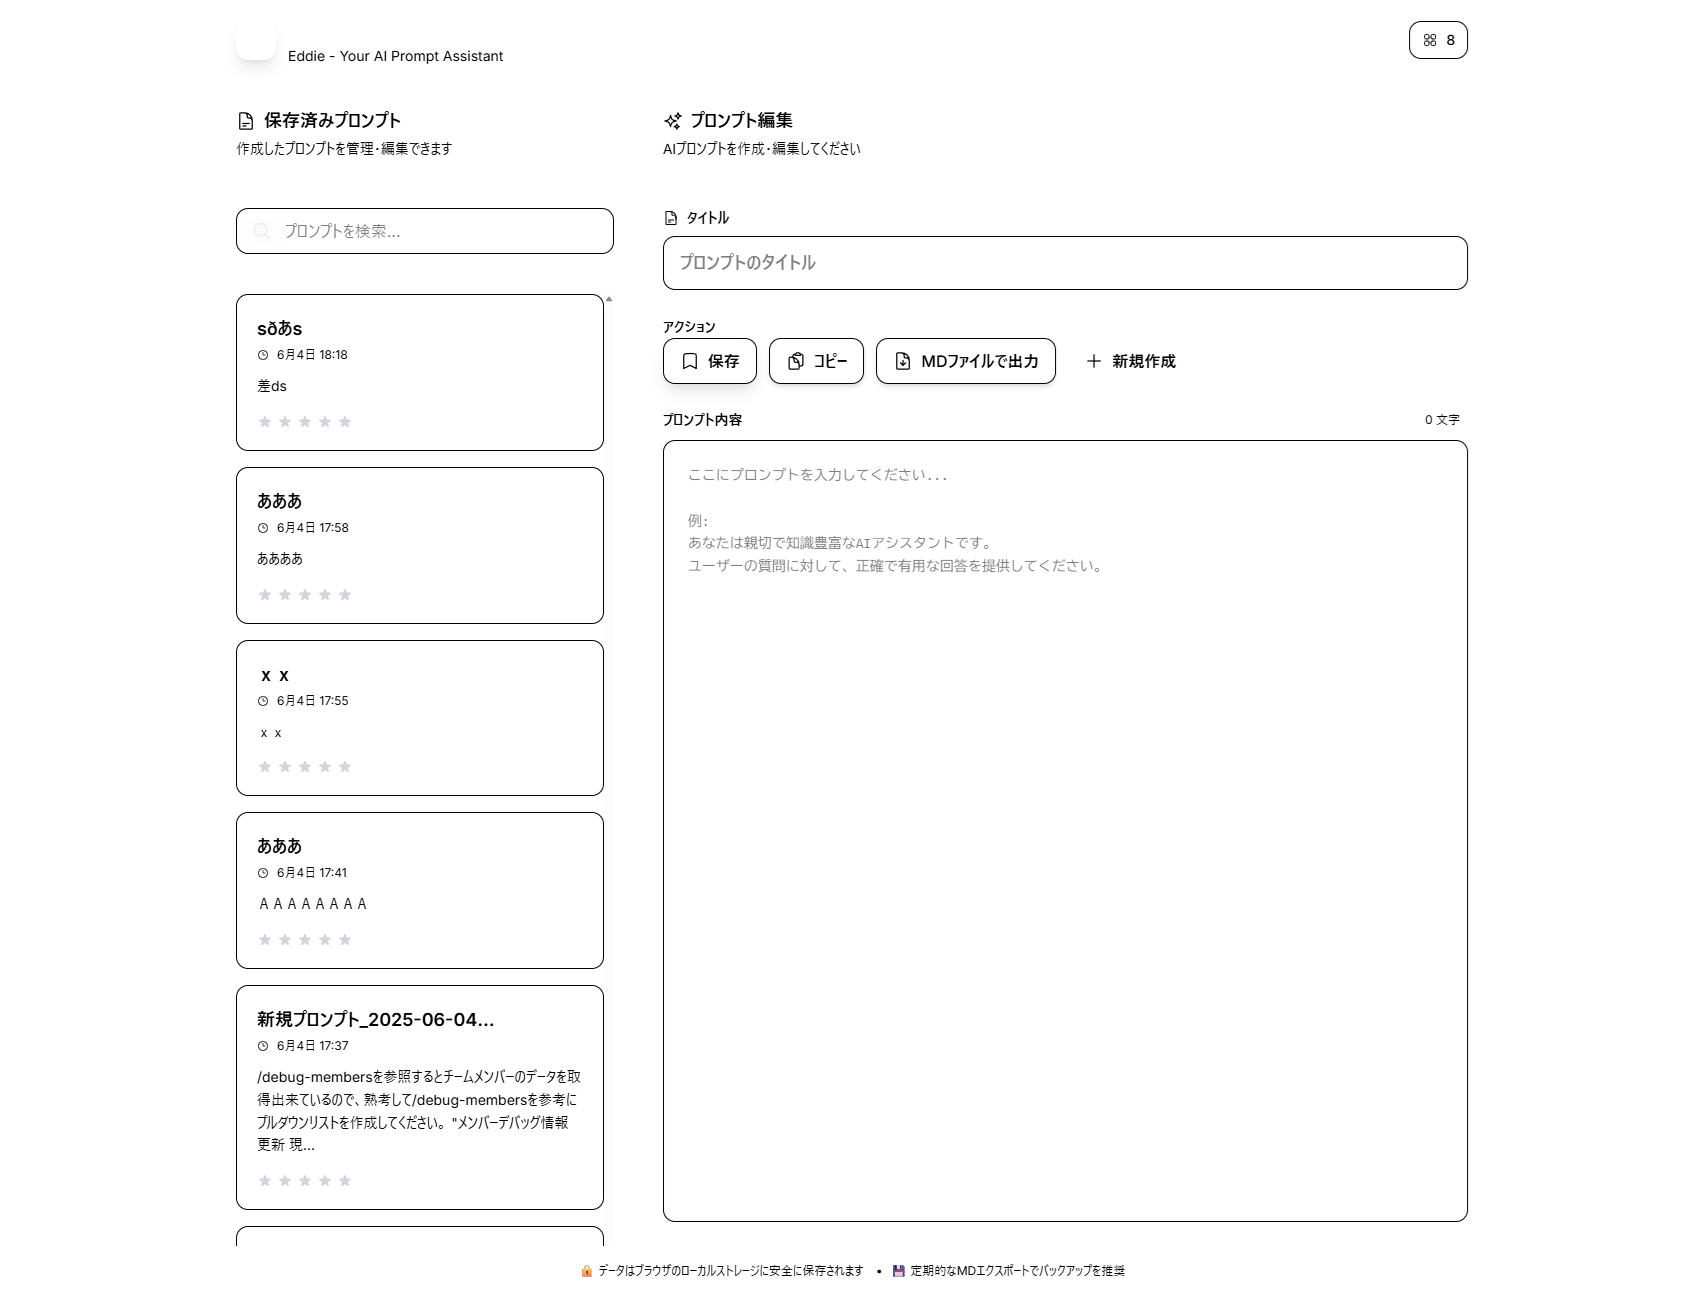
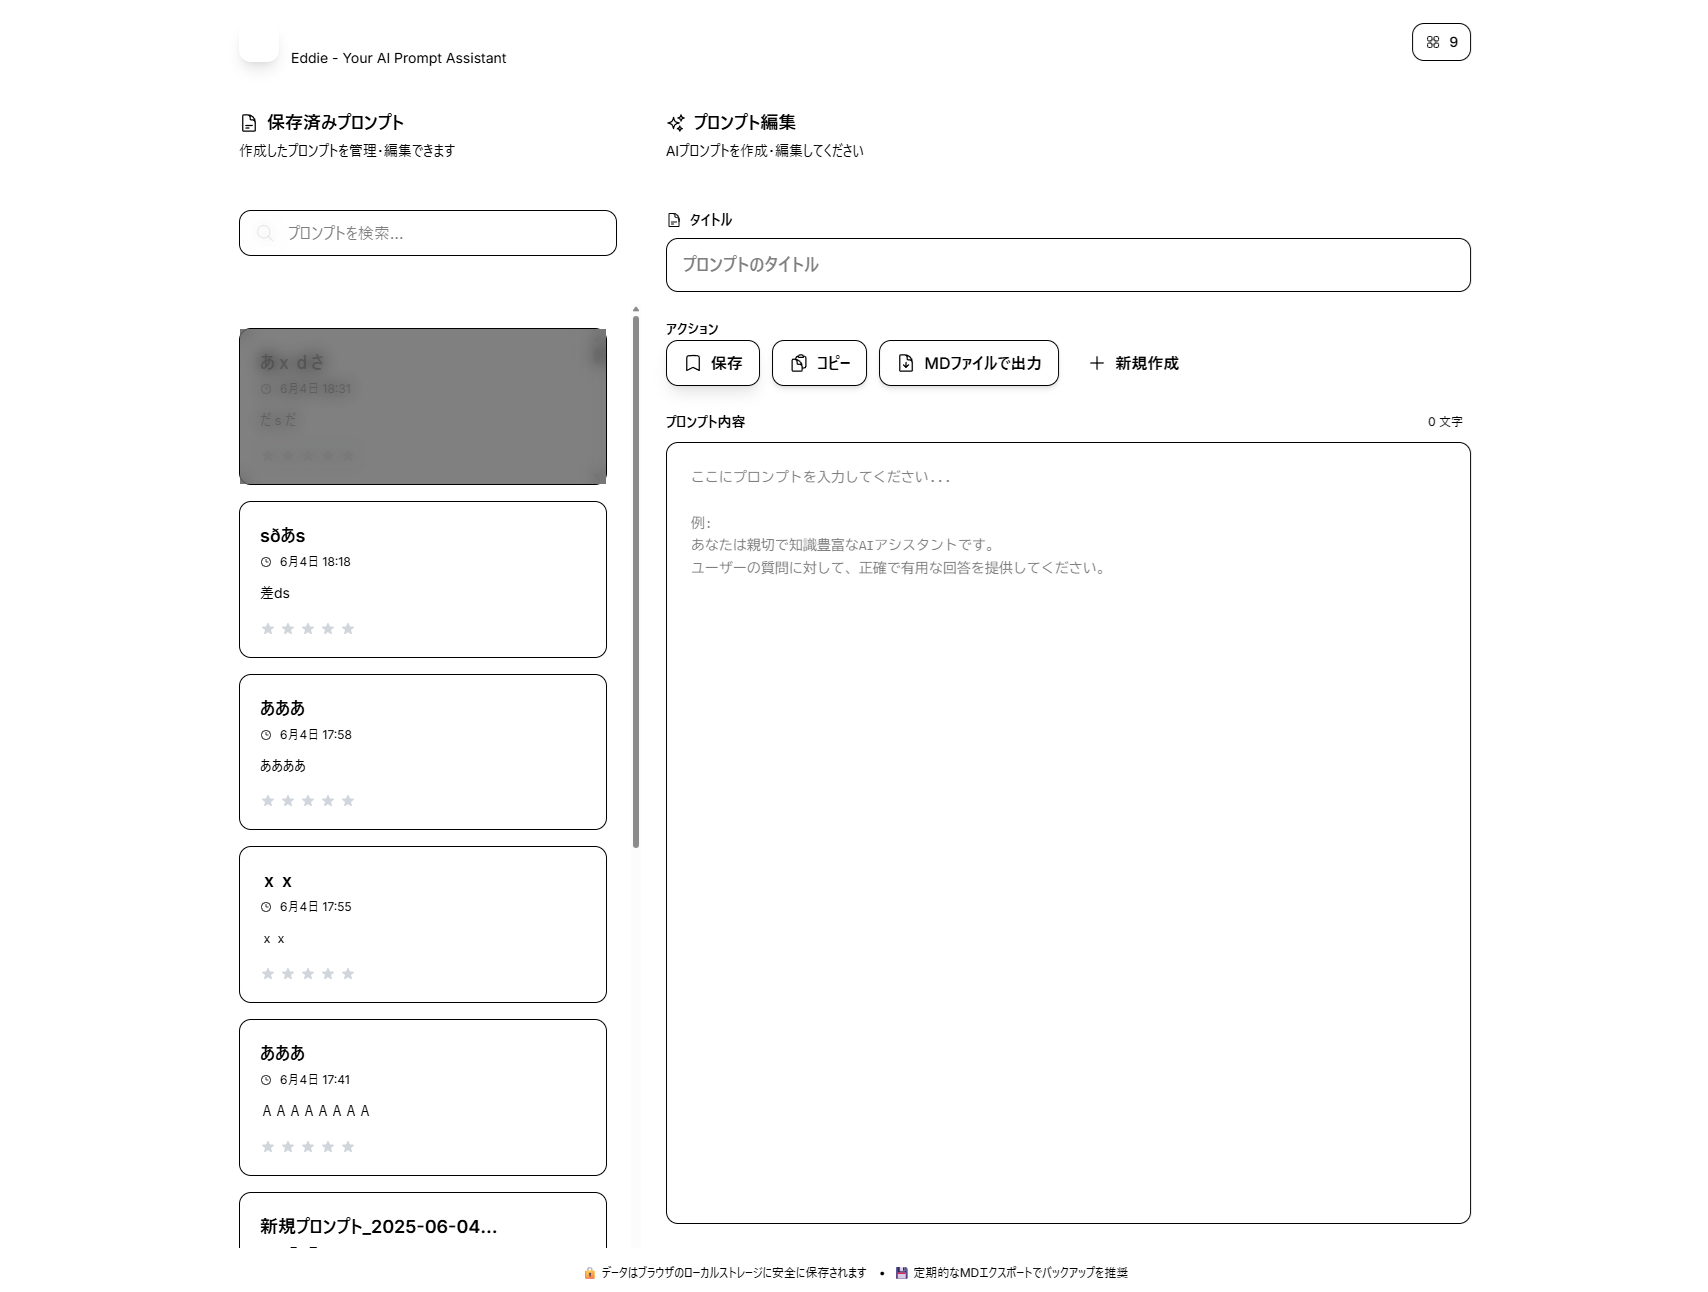
Fix: 削除確認モーダルの表示位置を修正
削除ボタンクリック時の挙動を改善:
- 削除確認ダイアログの管理を親コンポーネント(PromptList)に移動
- プロンプトカード単体ではなくサイドバー全体がグレーアウトするように修正
- 削除ボタンを1回クリックするだけでモーダルが表示されるように改善

🤖 Generated with [Claude Code](https://claude.ai/code)

diff --git a/eddie-prompt-editor/src/components/List/PromptList.jsx b/eddie-prompt-editor/src/components/List/PromptList.jsx
@@ -1,6 +1,7 @@
 import React, { useState } from 'react';
 import { SearchBar } from './SearchBar';
 import { PromptListItem } from './PromptListItem';
+import { ConfirmDialog } from '../Modal/ConfirmDialog';
 import { DocumentTextIcon, ExclamationCircleIcon } from '@heroicons/react/24/outline';
 
 export function PromptList({ 
@@ -14,6 +15,26 @@ export function PromptList({
   onSearch,
   selectedPromptId = null
 }) {
+  const [deletePromptId, setDeletePromptId] = useState(null);
+  const [showDeleteDialog, setShowDeleteDialog] = useState(false);
+
+  const handleDeleteClick = (promptId) => {
+    setDeletePromptId(promptId);
+    setShowDeleteDialog(true);
+  };
+
+  const handleConfirmDelete = () => {
+    if (deletePromptId) {
+      onDeletePrompt(deletePromptId);
+      setDeletePromptId(null);
+      setShowDeleteDialog(false);
+    }
+  };
+
+  const handleCancelDelete = () => {
+    setDeletePromptId(null);
+    setShowDeleteDialog(false);
+  };
   if (loading) {
     return (
       <div className="flex items-center justify-center h-64 p-4 sm:p-6">
@@ -40,54 +61,66 @@ export function PromptList({
   }
 
   return (
-    <div className="h-full flex flex-col animate-fade-in">
-      <div className="flex-shrink-0 p-4 sm:p-6 pb-0">
-        <SearchBar onSearch={onSearch} />
-      </div>
-      
-      <div className="flex-1 scrollbar-always-visible min-h-0 p-4 sm:p-6 pt-4" style={{ maxHeight: 'calc(100vh - 280px)' }}>
-          {prompts.length === 0 ? (
-            <div className="text-center py-16">
-              <div className="bg-gradient-to-br from-primary-100 to-accent-100 w-24 h-24 rounded-full flex items-center justify-center mx-auto mb-6 shadow-soft">
-                <DocumentTextIcon className="w-12 h-12 text-primary-600" />
-              </div>
-              <h3 className="text-xl font-semibold text-secondary-900 mb-2">
-                プロンプトがまだありません
-              </h3>
-              <p className="text-secondary-600 max-w-sm mx-auto leading-relaxed">
-                右のエディタでAIプロンプトを作成してみましょう！
-                <br />
-                作成したプロンプトはここに表示されます。
-              </p>
-            </div>
-          ) : (
-            <>
-              <div className="space-y-4">
-                {prompts.map((prompt, index) => (
-                  <div
-                    key={prompt.id}
-                    style={{ animationDelay: `${index * 50}ms` }}
-                  >
-                    <PromptListItem
-                      prompt={prompt}
-                      onSelect={onSelectPrompt}
-                      onCopyAndEdit={onCopyAndEdit}
-                      onDelete={onDeletePrompt}
-                      onRate={onRatePrompt}
-                      isSelected={prompt.id === selectedPromptId}
-                    />
-                  </div>
-                ))}
-              </div>
-              
-              <div className="mt-6 pt-4 border-t border-secondary-200">
-                <p className="text-xs text-secondary-500 text-center">
-                  {prompts.length} 件のプロンプトが保存されています
+    <>
+      <div className={`h-full flex flex-col animate-fade-in ${showDeleteDialog ? 'opacity-50 pointer-events-none' : ''}`}>
+        <div className="flex-shrink-0 p-4 sm:p-6 pb-0">
+          <SearchBar onSearch={onSearch} />
+        </div>
+        
+        <div className="flex-1 scrollbar-always-visible min-h-0 p-4 sm:p-6 pt-4" style={{ maxHeight: 'calc(100vh - 280px)' }}>
+            {prompts.length === 0 ? (
+              <div className="text-center py-16">
+                <div className="bg-gradient-to-br from-primary-100 to-accent-100 w-24 h-24 rounded-full flex items-center justify-center mx-auto mb-6 shadow-soft">
+                  <DocumentTextIcon className="w-12 h-12 text-primary-600" />
+                </div>
+                <h3 className="text-xl font-semibold text-secondary-900 mb-2">
+                  プロンプトがまだありません
+                </h3>
+                <p className="text-secondary-600 max-w-sm mx-auto leading-relaxed">
+                  右のエディタでAIプロンプトを作成してみましょう！
+                  <br />
+                  作成したプロンプトはここに表示されます。
                 </p>
               </div>
-            </>
-          )}
+            ) : (
+              <>
+                <div className="space-y-4">
+                  {prompts.map((prompt, index) => (
+                    <div
+                      key={prompt.id}
+                      style={{ animationDelay: `${index * 50}ms` }}
+                    >
+                      <PromptListItem
+                        prompt={prompt}
+                        onSelect={onSelectPrompt}
+                        onCopyAndEdit={onCopyAndEdit}
+                        onDelete={handleDeleteClick}
+                        onRate={onRatePrompt}
+                        isSelected={prompt.id === selectedPromptId}
+                      />
+                    </div>
+                  ))}
+                </div>
+                
+                <div className="mt-6 pt-4 border-t border-secondary-200">
+                  <p className="text-xs text-secondary-500 text-center">
+                    {prompts.length} 件のプロンプトが保存されています
+                  </p>
+                </div>
+              </>
+            )}
+        </div>
       </div>
-    </div>
+      
+      <ConfirmDialog
+        isOpen={showDeleteDialog}
+        onClose={handleCancelDelete}
+        onConfirm={handleConfirmDelete}
+        title="プロンプトを削除"
+        message="このプロンプトを削除しますか？この操作は取り消せません。"
+        confirmText="削除"
+        cancelText="キャンセル"
+      />
+    </>
   );
 }

diff --git a/eddie-prompt-editor/src/components/List/PromptListItem.jsx b/eddie-prompt-editor/src/components/List/PromptListItem.jsx
@@ -1,7 +1,6 @@
-import React, { useState } from 'react';
+import React, { useState, useCallback, useRef } from 'react';
 import { RatingStars } from './RatingStars';
 import { RatingDialog } from '../Modal/RatingDialog';
-import { ConfirmDialog } from '../Modal/ConfirmDialog';
 import { 
   DocumentDuplicateIcon, 
   TrashIcon, 
@@ -18,7 +17,8 @@ export function PromptListItem({
   isSelected = false 
 }) {
   const [showRatingDialog, setShowRatingDialog] = useState(false);
-  const [showDeleteDialog, setShowDeleteDialog] = useState(false);
+  const isActionClickedRef = useRef(false);
+
 
   const formatDate = (timestamp) => {
     return new Date(timestamp).toLocaleDateString('ja-JP', {
@@ -34,13 +34,52 @@ export function PromptListItem({
     return content.substring(0, maxLength) + '...';
   };
 
+  const handleCardClick = useCallback(() => {
+    // モーダルが開いている場合、またはアクションボタンがクリックされた場合は無視
+    if (isActionClickedRef.current || showRatingDialog) {
+      return;
+    }
+    onSelect(prompt);
+  }, [onSelect, prompt, showRatingDialog]);
+
+  const handleCopyClick = useCallback((e) => {
+    // カードクリック無効化
+    isActionClickedRef.current = true;
+    
+    e.stopPropagation();
+    e.preventDefault();
+    onCopyAndEdit(prompt);
+    
+    // 100ms後にアクションフラグリセット
+    setTimeout(() => {
+      isActionClickedRef.current = false;
+    }, 100);
+  }, [onCopyAndEdit, prompt]);
+
+  const handleDeleteClick = useCallback((e) => {
+    // 確実なイベント阻止（最初に実行）
+    e.stopPropagation();
+    e.preventDefault();
+    if (e.nativeEvent && e.nativeEvent.stopImmediatePropagation) {
+      e.nativeEvent.stopImmediatePropagation();
+    }
+    
+    // カードクリック無効化
+    isActionClickedRef.current = true;
+    
+    // 親コンポーネントのonDeleteハンドラを呼び出す
+    onDelete(prompt.id);
+    
+    // 100ms後にアクションフラグリセット
+    setTimeout(() => {
+      isActionClickedRef.current = false;
+    }, 100);
+  }, [onDelete, prompt.id]);
+
   const handleRate = (rating) => {
     onRate(prompt.id, rating);
   };
 
-  const handleDelete = () => {
-    onDelete(prompt.id);
-  };
 
   return (
     <div
@@ -49,8 +88,9 @@ export function PromptListItem({
           ? 'bg-gradient-to-br from-primary-50 to-accent-50 border-2 border-primary-200 shadow-glow' 
           : 'bg-white/80 backdrop-blur-sm border border-secondary-200 hover:bg-white hover:shadow-soft-lg hover:-translate-y-1'
       }`}
-      onClick={() => onSelect(prompt)}
+      onClick={handleCardClick}
     >
+
       {/* Header */}
       <div className="flex justify-between items-start mb-3">
         <div className="flex-1 min-w-0 mr-3">
@@ -68,23 +108,38 @@ export function PromptListItem({
         </div>
         
         {/* Action Buttons */}
-        <div className="flex items-center space-x-1 opacity-0 group-hover:opacity-100 transition-opacity">
+        <div 
+          className="flex items-center space-x-1 opacity-0 group-hover:opacity-100 transition-opacity duration-150 relative z-10"
+          onClick={(e) => {
+            e.stopPropagation();
+            e.preventDefault();
+            if (e.nativeEvent && e.nativeEvent.stopImmediatePropagation) {
+              e.nativeEvent.stopImmediatePropagation();
+            }
+          }}
+          onMouseDown={(e) => {
+            e.stopPropagation();
+            e.preventDefault();
+          }}
+        >
           <button
-            onClick={(e) => {
+            onClick={handleCopyClick}
+            onMouseDown={(e) => {
               e.stopPropagation();
-              onCopyAndEdit(prompt);
+              e.preventDefault();
             }}
-            className="p-2 text-secondary-400 hover:text-primary-600 hover:bg-primary-50 rounded-lg transition-all duration-200"
+            className="p-2 text-secondary-400 hover:text-primary-600 hover:bg-primary-50 rounded-lg transition-colors duration-150"
             title="コピーして編集"
           >
             <DocumentDuplicateIcon className="w-4 h-4" />
           </button>
           <button
-            onClick={(e) => {
+            onClick={handleDeleteClick}
+            onMouseDown={(e) => {
               e.stopPropagation();
-              setShowDeleteDialog(true);
+              e.preventDefault();
             }}
-            className="p-2 text-secondary-400 hover:text-red-600 hover:bg-red-50 rounded-lg transition-all duration-200"
+            className="p-2 text-secondary-400 hover:text-red-600 hover:bg-red-50 rounded-lg transition-colors duration-150"
             title="削除"
           >
             <TrashIcon className="w-4 h-4" />
@@ -129,16 +184,6 @@ export function PromptListItem({
         onClose={() => setShowRatingDialog(false)}
         onRate={handleRate}
         currentRating={prompt.rating}
-      />
-
-      <ConfirmDialog
-        isOpen={showDeleteDialog}
-        onClose={() => setShowDeleteDialog(false)}
-        onConfirm={handleDelete}
-        title="プロンプトを削除"
-        message="このプロンプトを削除しますか？この操作は取り消せません。"
-        confirmText="削除"
-        cancelText="キャンセル"
       />
     </div>
   );

diff --git a/eddie-prompt-editor/src/components/Modal/ConfirmDialog.jsx b/eddie-prompt-editor/src/components/Modal/ConfirmDialog.jsx
@@ -12,7 +12,9 @@ export function ConfirmDialog({
   cancelText = 'キャンセル',
   confirmVariant = 'danger'
 }) {
-  if (!isOpen) return null;
+  if (!isOpen) {
+    return null;
+  }
 
   const handleConfirm = () => {
     onConfirm();
@@ -20,11 +22,11 @@ export function ConfirmDialog({
   };
 
   return (
-    <div className="fixed inset-0 z-50 overflow-y-auto animate-fade-in">
+    <div className="fixed inset-0 z-[9999] overflow-y-auto animate-fade-in">
       <div className="flex min-h-screen items-center justify-center p-4">
         <div className="fixed inset-0 bg-black/50 backdrop-blur-sm transition-opacity" onClick={onClose} />
         
-        <div className="relative bg-white/95 backdrop-blur-md rounded-2xl max-w-md w-full p-6 shadow-soft-lg border border-white/20 animate-slide-up">
+        <div className="relative bg-white/95 backdrop-blur-md rounded-2xl max-w-md w-full p-6 shadow-soft-lg border border-white/20 animate-slide-up" style={{ backgroundColor: 'rgba(255, 255, 255, 0.98)' }}>
           {/* Close Button */}
           <button
             onClick={onClose}
